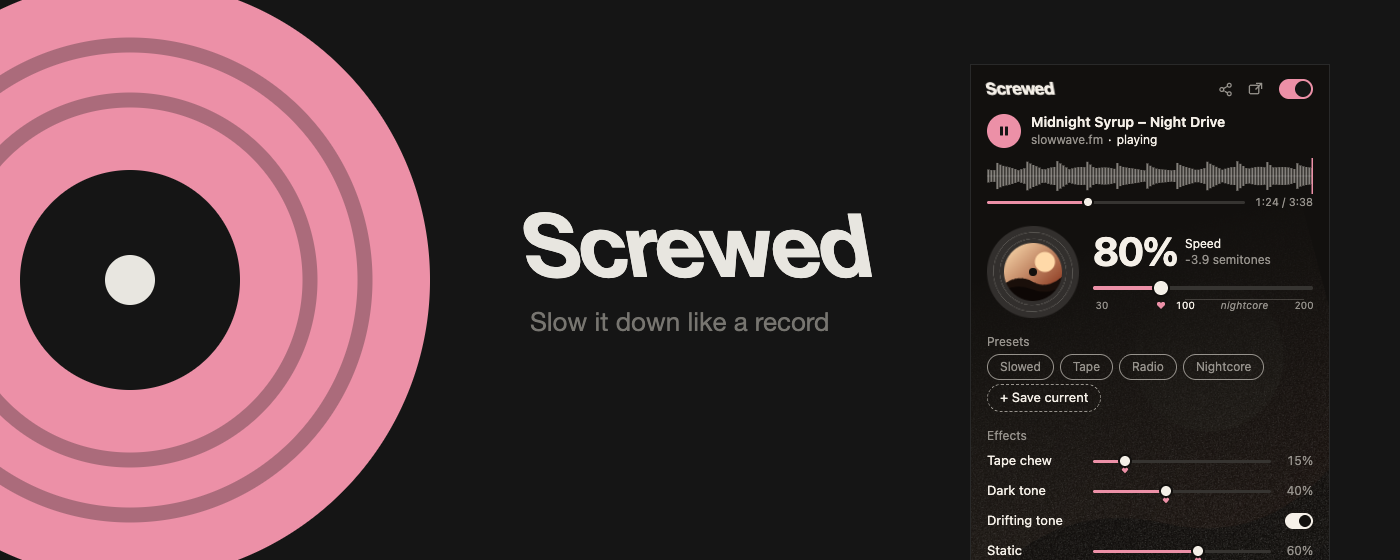
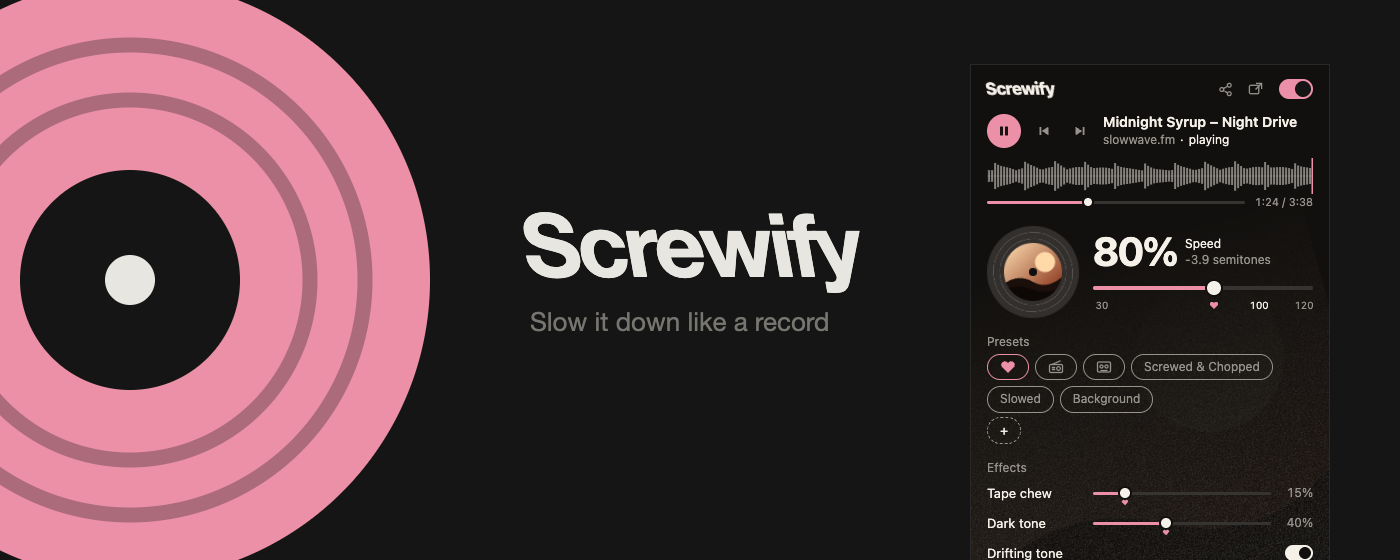
Сайт: живая панель и обложки под Screwify 0.21.0

diff --git a/panel/i18n.js b/panel/i18n.js
@@ -57,10 +57,9 @@ const SCREWED_I18N = {
     reverb: 'Reverb',
     reverbTip: 'Adds a room around the sound. Off by default',
     presetSlowed: 'Slowed',
-    presetTape: 'Tape',
+    presetTape: 'Cassette',
     presetRadio: 'Radio',
-    presetNightcore: 'Nightcore',
-    presetSave: 'Save current',
+    presetSave: 'Save current settings as a preset',
     presetName: 'Preset name',
     presetDelete: 'Delete preset',
     presetLimit: 'You can save up to {n} presets',
@@ -79,6 +78,17 @@ const SCREWED_I18N = {
     shareCopied: 'Link copied – it opens this page with your settings',
     shareNoPage: 'Nothing to share: this tab has no website page',
     sharedApplied: 'Screwify: settings from the link are on – speed {speed}. Click the extension icon to open the panel',
+    presetHeart: 'Default',
+    presetChop: 'Screwed & Chopped',
+    presetBackground: 'Background',
+    presetDescHeart: 'Default settings. Fits most songs, ideal for focusing at work.',
+    presetDescRadio: 'Plays like the original, but feels like driving through faraway places with a bad radio signal.',
+    presetDescTape: 'Light lo-fi with gentle warmth. Fits 100% of songs and changes their vibe.',
+    presetDescChop: 'Best for bass music from 140 BPM, emphasizes the rhythm.',
+    presetDescSlowed: 'Best for energetic, swinging rhythms.',
+    presetDescBg: 'Dark floating tone with light chewing, noise and reverb – quiet music in the background.',
+    prevTrack: 'Previous track',
+    nextTrack: 'Next track',
   },
   ru: {
     on: 'Вкл',
@@ -129,8 +139,7 @@ const SCREWED_I18N = {
     presetSlowed: 'Slowed',
     presetTape: 'Кассета',
     presetRadio: 'Радио',
-    presetNightcore: 'Nightcore',
-    presetSave: 'Сохранить текущие',
+    presetSave: 'Сохранить текущие настройки как пресет',
     presetName: 'Название пресета',
     presetDelete: 'Удалить пресет',
     presetLimit: 'Можно сохранить не больше {n} пресетов',
@@ -149,6 +158,17 @@ const SCREWED_I18N = {
     shareCopied: 'Ссылка скопирована – по ней откроется эта страница с вашими настройками',
     shareNoPage: 'Нечем поделиться: на вкладке нет страницы сайта',
     sharedApplied: 'Screwify: включены настройки из ссылки – скорость {speed}. Нажмите на значок расширения, чтобы открыть панель',
+    presetHeart: 'По умолчанию',
+    presetChop: 'Screwed & Chopped',
+    presetBackground: 'Фон',
+    presetDescHeart: 'Настройки по умолчанию. Подходят для большинства песен, идеально для концентрации на работе.',
+    presetDescRadio: 'Играет как в оригинале, но создаёт иллюзию поездки в машине по далёким местам с плохим радиосигналом.',
+    presetDescTape: 'Лёгкий lo-fi, ненавязчивая теплота. Подходит под 100% песен, меняя им вайб.',
+    presetDescChop: 'Лучше всего для басовой музыки от 140 BPM, подчёркивает ритм.',
+    presetDescSlowed: 'Лучше подходит для энергичных качающих ритмов.',
+    presetDescBg: 'Тёмный плавающий тон, лёгкое жевание, шум и реверб – тихая музыка на фоне.',
+    prevTrack: 'Предыдущий трек',
+    nextTrack: 'Следующий трек',
   },
   zh: {
     on: '开启',
@@ -199,8 +219,7 @@ const SCREWED_I18N = {
     presetSlowed: '慢放',
     presetTape: '磁带',
     presetRadio: '收音机',
-    presetNightcore: '夜核',
-    presetSave: '保存当前设置',
+    presetSave: '将当前设置保存为预设',
     presetName: '预设名称',
     presetDelete: '删除预设',
     presetLimit: '最多可保存 {n} 个预设',
@@ -219,6 +238,17 @@ const SCREWED_I18N = {
     shareCopied: '链接已复制，它会以你的设置打开此页面',
     shareNoPage: '无法分享：此标签页不是网站页面',
     sharedApplied: 'Screwify：已应用链接中的设置，速度 {speed}。点击扩展图标打开面板',
+    presetHeart: '默认',
+    presetChop: 'Screwed & Chopped',
+    presetBackground: '背景',
+    presetDescHeart: '默认设置。适合大多数歌曲，非常适合工作时集中注意力。',
+    presetDescRadio: '听起来和原曲一样，却像在遥远的地方开车、收音机信号很差。',
+    presetDescTape: '轻柔的 lo-fi，温暖而不张扬。适合所有歌曲，并改变它们的氛围。',
+    presetDescChop: '最适合 140 BPM 以上的低音音乐，突出节奏。',
+    presetDescSlowed: '更适合有力、摇摆的节奏。',
+    presetDescBg: '低沉漂浮的音色，轻微磁带抖动、噪声和混响，适合当作背景音乐。',
+    prevTrack: '上一首',
+    nextTrack: '下一首',
   },
   es: {
     on: 'Activado',
@@ -267,10 +297,9 @@ const SCREWED_I18N = {
     reverb: 'Reverb',
     reverbTip: 'Añade una sala alrededor del sonido. Desactivado por defecto',
     presetSlowed: 'Lento',
-    presetTape: 'Cinta',
+    presetTape: 'Casete',
     presetRadio: 'Radio',
-    presetNightcore: 'Nightcore',
-    presetSave: 'Guardar actuales',
+    presetSave: 'Guardar los ajustes actuales como preajuste',
     presetName: 'Nombre del ajuste',
     presetDelete: 'Eliminar ajuste',
     presetLimit: 'Puedes guardar hasta {n} ajustes',
@@ -289,6 +318,17 @@ const SCREWED_I18N = {
     shareCopied: 'Enlace copiado: abre esta página con tus ajustes',
     shareNoPage: 'No hay nada que compartir: esta pestaña no es una página web',
     sharedApplied: 'Screwify: ajustes del enlace activados, velocidad {speed}. Haz clic en el icono de la extensión para abrir el panel',
+    presetHeart: 'Predeterminado',
+    presetChop: 'Screwed & Chopped',
+    presetBackground: 'Fondo',
+    presetDescHeart: 'Ajustes predeterminados. Sirven para la mayoría de canciones, ideales para concentrarse en el trabajo.',
+    presetDescRadio: 'Suena como el original, pero da la ilusión de viajar en coche por lugares lejanos con mala señal de radio.',
+    presetDescTape: 'Lo-fi suave con una calidez discreta. Va con el 100 % de las canciones y les cambia el ambiente.',
+    presetDescChop: 'Ideal para música de bajos desde 140 BPM, resalta el ritmo.',
+    presetDescSlowed: 'Va mejor con ritmos enérgicos y bamboleantes.',
+    presetDescBg: 'Tono oscuro y flotante con un poco de masticado, ruido y reverberación: música tranquila de fondo.',
+    prevTrack: 'Pista anterior',
+    nextTrack: 'Pista siguiente',
   },
   ar: {
     on: 'تشغيل',
@@ -336,11 +376,10 @@ const SCREWED_I18N = {
     presets: 'إعدادات جاهزة',
     reverb: 'صدى',
     reverbTip: 'يضيف غرفة حول الصوت. متوقف افتراضيًا',
-    presetSlowed: 'مبطّأ',
+    presetSlowed: 'Slowed',
     presetTape: 'كاسيت',
     presetRadio: 'راديو',
-    presetNightcore: 'نايتكور',
-    presetSave: 'حفظ الحالي',
+    presetSave: 'حفظ الإعدادات الحالية كإعداد مسبق',
     presetName: 'اسم الإعداد',
     presetDelete: 'حذف الإعداد',
     presetLimit: 'يمكنك حفظ {n} إعدادات كحد أقصى',
@@ -359,6 +398,17 @@ const SCREWED_I18N = {
     shareCopied: 'تم نسخ الرابط – سيفتح هذه الصفحة بإعداداتك',
     shareNoPage: 'لا شيء للمشاركة: هذا التبويب ليس صفحة موقع',
     sharedApplied: 'Screwify: تم تفعيل إعدادات الرابط – السرعة {speed}. انقر على أيقونة الإضافة لفتح اللوحة',
+    presetHeart: 'افتراضي',
+    presetChop: 'Screwed & Chopped',
+    presetBackground: 'خلفية',
+    presetDescHeart: 'الإعدادات الافتراضية. تناسب معظم الأغاني، ومثالية للتركيز في العمل.',
+    presetDescRadio: 'يُشغَّل كما في الأصل، لكنه يمنحك إحساس السفر بالسيارة إلى أماكن بعيدة مع إشارة راديو ضعيفة.',
+    presetDescTape: 'لو-فاي خفيف بدفء هادئ. يناسب كل الأغاني ويغيّر أجواءها.',
+    presetDescChop: 'الأفضل للموسيقى الغنية بالباس من 140 نبضة في الدقيقة، ويبرز الإيقاع.',
+    presetDescSlowed: 'أنسب للإيقاعات النشيطة المتمايلة.',
+    presetDescBg: 'نغمة داكنة عائمة مع مضغ خفيف وضجيج وصدى – موسيقى هادئة في الخلفية.',
+    prevTrack: 'المقطع السابق',
+    nextTrack: 'المقطع التالي',
   },
   fr: {
     on: 'Activé',
@@ -409,8 +459,7 @@ const SCREWED_I18N = {
     presetSlowed: 'Ralenti',
     presetTape: 'Cassette',
     presetRadio: 'Radio',
-    presetNightcore: 'Nightcore',
-    presetSave: 'Enregistrer',
+    presetSave: 'Enregistrer les réglages actuels comme préréglage',
     presetName: 'Nom du préréglage',
     presetDelete: 'Supprimer le préréglage',
     presetLimit: 'Vous pouvez enregistrer {n} préréglages au maximum',
@@ -429,6 +478,17 @@ const SCREWED_I18N = {
     shareCopied: 'Lien copié : il ouvre cette page avec vos réglages',
     shareNoPage: 'Rien à partager : cet onglet n’affiche pas de page web',
     sharedApplied: 'Screwify : réglages du lien activés, vitesse {speed}. Cliquez sur l’icône de l’extension pour ouvrir le panneau',
+    presetHeart: 'Par défaut',
+    presetChop: 'Screwed & Chopped',
+    presetBackground: 'Fond',
+    presetDescHeart: 'Réglages par défaut. Conviennent à la plupart des morceaux, idéaux pour se concentrer au travail.',
+    presetDescRadio: 'Joue comme l’original, mais donne l’impression de rouler vers des contrées lointaines avec un mauvais signal radio.',
+    presetDescTape: 'Lo-fi léger, chaleur discrète. Convient à 100 % des morceaux et change leur ambiance.',
+    presetDescChop: 'Idéal pour la musique à basses à partir de 140 BPM, souligne le rythme.',
+    presetDescSlowed: 'Convient mieux aux rythmes énergiques et chaloupés.',
+    presetDescBg: 'Ton sombre et flottant avec un peu de mâchonnement, de bruit et de réverbération – musique discrète en fond.',
+    prevTrack: 'Piste précédente',
+    nextTrack: 'Piste suivante',
   },
 };
 

diff --git a/panel/panel.css b/panel/panel.css
@@ -1,4 +1,4 @@
-/* Панель Screwify.
+/* Панель Screwed.
    Нейтральная основа берётся у сайта: фон, текст, линии. Акцент сайта — только там,
    где звук или действие: «играть», прогресс, заливка ползунков, главный выключатель.
    Иерархия сверху вниз: что играет → главный инструмент (скорость) → эффекты → справка. */
@@ -175,8 +175,14 @@ header {
 .pp svg { width: 12px; height: 12px; fill: currentColor; }
 .pp .icon-play, .pp.paused .icon-pause { display: none; }
 .pp.paused .icon-play { display: block; margin-inline-start: 1px; }
-/* управлять нечем — кнопки нет */
-.now:has(#progress[hidden]) .pp { display: none; }
+.skip {
+  flex: none; display: grid; place-items: center; width: 26px; height: 26px; padding: 0;
+  border: 0; border-radius: 50%; background: none; color: var(--muted); cursor: pointer;
+}
+.skip:hover, .skip:focus-visible { color: var(--fg); }
+.skip svg { width: 12px; height: 12px; fill: currentColor; }
+/* управлять нечем — кнопок нет */
+.now:has(#progress[hidden]) .pp, .now:has(#progress[hidden]) .skip { display: none; }
 
 .title {
   overflow: hidden;
@@ -337,18 +343,6 @@ input[type=range]:focus-visible { outline-offset: 0; border-radius: 4px; }
 .scale > * { position: absolute; left: calc(var(--p) * 100%); transform: translateX(-50%); }
 /* 100% — обычная скорость, точка отсчёта */
 .scale .ref { color: var(--fg); }
-/* быстрее 100% – зона «Nightcore»: подпись посередине и тонкая черта от 100% до 200% над ней */
-.scale .zone { font-style: italic; letter-spacing: .02em; }
-.scale::before {
-  content: "";
-  position: absolute;
-  top: 0;
-  left: 41.2%;
-  right: 0;
-  height: 1px;
-  background: var(--muted);
-  opacity: .35;
-}
 /* Сердечко — рекомендуемое значение, оно же по умолчанию: 80% скорости, 15% жевания, 40% тёмного тона, 60% шума.
    Нажатие ставит его. Пока стоит другое значение, сердечко приглушено и не лезет в глаза;
    акцентным становится, когда значение выбрано (и при наведении — как приглашение нажать). */
@@ -398,6 +392,8 @@ input[type=range]:focus-visible { outline-offset: 0; border-radius: 4px; }
 .preset.user .del { padding: 4px 8px 4px 2px; opacity: .6; }
 .preset.user .del:hover { opacity: 1; }
 .preset.add { border: 1px dashed var(--muted); padding: 4px 12px; }
+.preset .ico { display: block; width: 16px; height: 14px; fill: none; stroke: currentColor; stroke-width: 1.300; stroke-linecap: round; stroke-linejoin: round; }
+.preset .ico.solid { fill: currentColor; stroke: none; }
 .preset-save { display: flex; gap: 6px; margin-top: 6px; }
 .preset-save[hidden] { display: none; }
 .preset-save input { flex: 1; min-width: 0; padding: 4px 10px; font: inherit; font-size: 12px; color: var(--fg); background: none; border: 1px solid var(--muted); border-radius: 999px; }

diff --git a/panel/panel.html b/panel/panel.html
@@ -45,6 +45,12 @@
         <svg class="icon-pause" viewBox="0 0 12 12" aria-hidden="true"><rect x="2" y="1.500" width="3" height="9" rx=".800"/><rect x="7" y="1.500" width="3" height="9" rx=".800"/></svg>
         <svg class="icon-play" viewBox="0 0 12 12" aria-hidden="true"><path d="M3 1.600v8.800c0 .400.400.600.700.400l6.600-4.400a.500.500 0 0 0 0-.800L3.700 1.200c-.300-.200-.700 0-.700.400z"/></svg>
       </button>
+      <button id="prevtrack" class="skip" type="button" data-i18n-aria="prevTrack" data-i18n-title="prevTrack">
+        <svg viewBox="0 0 12 12" aria-hidden="true"><rect x="1.500" y="2" width="1.800" height="8" rx=".500"/><path d="M10.500 2.400v7.200c0 .400-.400.600-.700.400L4.500 6.400a.500.500 0 0 1 0-.800L9.800 2c.300-.200.700 0 .700.400z"/></svg>
+      </button>
+      <button id="nexttrack" class="skip" type="button" data-i18n-aria="nextTrack" data-i18n-title="nextTrack">
+        <svg viewBox="0 0 12 12" aria-hidden="true"><rect x="8.700" y="2" width="1.800" height="8" rx=".500"/><path d="M1.500 2.400v7.200c0 .400.400.600.700.400l5.300-3.600a.500.500 0 0 0 0-.800L2.200 2c-.300-.200-.700 0-.700.400z"/></svg>
+      </button>
       <div class="track-text">
         <div class="title" id="now-title"></div>
         <div class="now-row">
@@ -79,15 +85,13 @@
           <span class="sub"><span id="pitch-out"></span><span id="bpm-out" hidden> · <span id="bpm-num" dir="ltr"></span><span class="dots" id="bpm-dots" aria-hidden="true"><i></i><i></i><i></i></span></span></span>
         </div>
       </div>
-      <input type="range" id="speed" min="0.3" max="2" step="0.01">
+      <input type="range" id="speed" min="0.3" max="1.2" step="0.01">
       <div class="scale">
         <span style="--p:0" aria-hidden="true">30</span>
         <!-- 80% — скорость по умолчанию: на ней музыка звучит удачнее всего. Нажатие ставит её -->
-        <button class="fav" type="button" style="--p:.294" data-fav="speed" data-value="0.8" data-i18n-aria="favSet"><svg viewBox="0 0 12 11" aria-hidden="true"><path d="M6 10.300 1.300 5.700a2.900 2.900 0 0 1 4.100-4.100l.600.600.600-.600a2.900 2.900 0 0 1 4.100 4.100z"/></svg></button>
-        <span class="ref" style="--p:.412" aria-hidden="true">100</span>
-        <!-- быстрее 100% – зона «Nightcore»: тон и темп вверх. Положение на шкале – (v − 0,3) / 1,7 -->
-        <span class="zone" style="--p:.706" aria-hidden="true">nightcore</span>
-        <span style="--p:1" aria-hidden="true">200</span>
+        <button class="fav" type="button" style="--p:.556" data-fav="speed" data-value="0.8" data-i18n-aria="favSet"><svg viewBox="0 0 12 11" aria-hidden="true"><path d="M6 10.300 1.300 5.700a2.900 2.900 0 0 1 4.100-4.100l.600.600.600-.600a2.900 2.900 0 0 1 4.100 4.100z"/></svg></button>
+        <span class="ref" style="--p:.778" aria-hidden="true">100</span>
+        <span style="--p:1" aria-hidden="true">120</span>
       </div>
     </div>
   </section>

diff --git a/panel/panel.js b/panel/panel.js
@@ -83,11 +83,16 @@ for (const id of RANGES) {
 }
 
 // пресеты: кнопки строим по списку из defaults.js; подсветка гаснет, когда ручки разошлись с пресетом
+const PRESET_ICONS = {
+  heart: '<svg class="ico solid" viewBox="0 0 16 14" aria-hidden="true"><path d="M8 13 2.200 7.300a3.500 3.500 0 0 1 5-5L8 3l.800-.700a3.500 3.500 0 0 1 5 5z"/></svg>',
+  radio: '<svg class="ico" viewBox="0 0 16 14" aria-hidden="true"><rect x="1.500" y="4.500" width="13" height="8" rx="1.500"/><path d="M4 4.500 12 1"/><circle cx="10.500" cy="8.500" r="1.800"/><path d="M4 7.500h3M4 9.500h3"/></svg>',
+  tape: '<svg class="ico" viewBox="0 0 16 14" aria-hidden="true"><rect x="1.500" y="2" width="13" height="10" rx="1.500"/><circle cx="5.500" cy="6.500" r="1.500"/><circle cx="10.500" cy="6.500" r="1.500"/><path d="M5 10.500h6"/></svg>',
+};
 const presetBtns = SCREWED_PRESETS.map(preset => {
   const el = document.createElement('button');
   el.type = 'button';
   el.className = 'preset';
-  el.dataset.i18n = preset.i18n;
+  if (preset.icon) el.innerHTML = PRESET_ICONS[preset.icon];
   el.addEventListener('click', () => update({ ...preset.values }));
   $('presets').append(el);
   return { el, preset };
@@ -123,6 +128,17 @@ function renderUserPresets() {
     wrap.dataset.id = preset.id;
     row.append(wrap);
   }
+  const add = document.createElement('button');
+  add.type = 'button';
+  add.className = 'preset add';
+  add.textContent = '+';
+  add.title = add.ariaLabel = t('presetSave');
+  add.addEventListener('click', () => {
+    if (userPresets.length >= SCREWED_USER_PRESETS_MAX) { toast(t('presetLimit', { n: SCREWED_USER_PRESETS_MAX })); return; }
+    $('preset-form').hidden = false;
+    $('preset-name').focus();
+  });
+  row.append(add);
 }
 $('preset-form').addEventListener('submit', e => {
   e.preventDefault();
@@ -177,6 +193,11 @@ function applyLang() {
   }
   for (const el of app.querySelectorAll('[data-i18n]')) el.textContent = t(el.dataset.i18n);
   for (const el of app.querySelectorAll('[data-i18n-placeholder]')) el.placeholder = t(el.dataset.i18nPlaceholder);
+  for (const { el, preset } of presetBtns) {
+    const name = t(preset.i18n);
+    if (preset.icon) el.setAttribute('aria-label', name); else el.textContent = name;
+    el.title = `${name} – ${t(preset.desc)}`;
+  }
   renderUserPresets();
   for (const el of app.querySelectorAll('[data-i18n-title]')) el.title = t(el.dataset.i18nTitle);
   for (const el of app.querySelectorAll('[data-i18n-aria]')) el.setAttribute('aria-label', t(el.dataset.i18nAria));
@@ -496,6 +517,8 @@ function endScratch() {
   control('scratch-end');
 }
 
+$('prevtrack').addEventListener('click', () => control('prev'));
+$('nexttrack').addEventListener('click', () => control('next'));
 $('playpause').addEventListener('click', () => {
   if (!mon) return;
   mon.paused = !mon.paused; // сразу меняем иконку, не дожидаясь страницы

diff --git a/panel/defaults.js b/panel/defaults.js
@@ -15,10 +15,12 @@ const SCREWED_DEFAULTS = {
 // Пресет – набор значений всех ручек эффекта (не трогает сайты и язык), применяется одним действием.
 // i18n – ключ названия в i18n.js. Активным считается пресет, у которого все значения совпали с текущими.
 const SCREWED_PRESETS = [
-  { id: 'slowed', i18n: 'presetSlowed', values: { speed: 0.8, chewAmt: 0, tone: 0.4, noise: 0, reverb: 0.4, chop: false, drift: false } },
-  { id: 'tape', i18n: 'presetTape', values: { speed: 0.9, chewAmt: 0.5, tone: 0.5, noise: 0.3, reverb: 0.15, chop: false, drift: true } },
-  { id: 'radio', i18n: 'presetRadio', values: { speed: 1, chewAmt: 0.1, tone: 0.7, noise: 0.8, reverb: 0, chop: false, drift: false } },
-  { id: 'nightcore', i18n: 'presetNightcore', values: { speed: 1.3, chewAmt: 0, tone: 0, noise: 0, reverb: 0, chop: false, drift: false } },
+  { id: 'default', i18n: 'presetHeart', desc: 'presetDescHeart', icon: 'heart', values: { speed: 0.8, chewAmt: 0.15, tone: 0.4, noise: 0.6, reverb: 0, chop: false, drift: true } },
+  { id: 'radio', i18n: 'presetRadio', desc: 'presetDescRadio', icon: 'radio', values: { speed: 1, chewAmt: 0.1, tone: 0.7, noise: 0.8, reverb: 0, chop: false, drift: false } },
+  { id: 'tape', i18n: 'presetTape', desc: 'presetDescTape', icon: 'tape', values: { speed: 0.9, chewAmt: 0.5, tone: 0.5, noise: 0.3, reverb: 0.15, chop: false, drift: true } },
+  { id: 'chopped', i18n: 'presetChop', desc: 'presetDescChop', values: { speed: 0.7, chewAmt: 0, tone: 0, noise: 0, reverb: 0, chop: true, drift: false } },
+  { id: 'slowed', i18n: 'presetSlowed', desc: 'presetDescSlowed', values: { speed: 0.8, chewAmt: 0, tone: 0.4, noise: 0, reverb: 0.4, chop: false, drift: false } },
+  { id: 'background', i18n: 'presetBackground', desc: 'presetDescBg', values: { speed: 0.8, chewAmt: 0.2, tone: 1, noise: 0.5, reverb: 0.1, chop: false, drift: true } },
 ];
 
 function screwedPresetActive(preset, s) {
@@ -95,7 +97,7 @@ function screwedParseCode(code) {
     const m = part.match(/^([a-z])(\d{1,3})$/);
     if (!m) return null;
     const n = Number(m[2]);
-    if (m[1] === 's') out.speed = Math.min(2, Math.max(0.3, n / 100));
+    if (m[1] === 's') out.speed = Math.min(1.2, Math.max(0.3, n / 100));
     // 'p' (тон вниз) был в старых ссылках; теперь тон падает всегда — просто пропускаем
     if (m[1] === 'c') out.chewAmt = Math.min(1, n / 100);
     if (m[1] === 't') out.tone = Math.min(1, n / 100);
